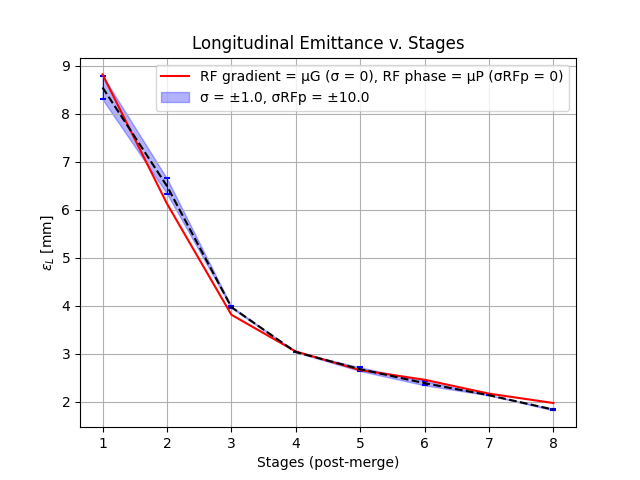
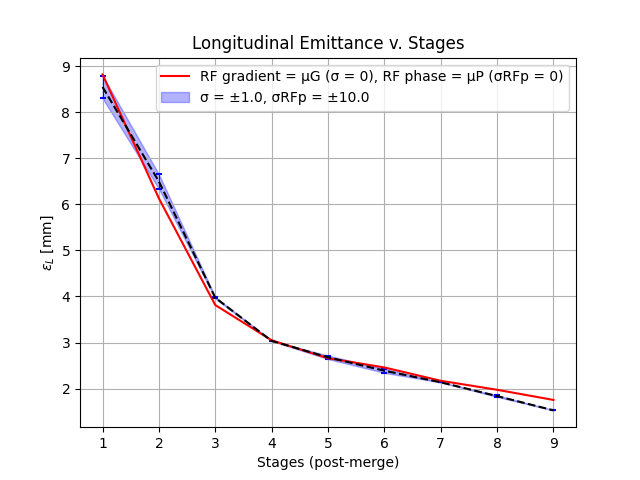
stage9

diff --git a/post_merge/quickscript.py b/post_merge/quickscript.py
@@ -16,13 +16,13 @@ transs_avg    = data[7]
 transs_sem    = data[8]
 transs_noerr  = data[9]
 
-stages = np.linspace(1, 8, num=len(zvals))
+stages = np.linspace(1, 9, num=len(zvals))
 
 plt.errorbar(stages, eperps_avg, xerr = None, yerr = eperps_sem, color='black', ecolor='blue', capsize=2.5, capthick=1.5, elinewidth=0.7, linestyle="dashed")
 plt.plot(stages, eperps_noerr, color = "red", label = "RF gradient = μG (σ = 0), RF phase = μP (σRFp = 0)")
 plt.fill_between(stages, np.array(eperps_avg) - np.array(eperps_sem), np.array(eperps_avg) + np.array(eperps_sem), color='blue', alpha=0.3, label=f'σ = ±1.0, σRFp = ±10.0')
 plt.xlabel("Stages (post-merge)")
-plt.xticks([1,2,3,4,5,6,7,8])
+plt.xticks([1,2,3,4,5,6,7,8,9])
 plt.ylabel(r"$\epsilon_T$ [mm]")
 plt.title("Transverse Emittance v. Stages")
 plt.grid(True)
@@ -34,7 +34,7 @@ plt.errorbar(stages, elongs_avg, xerr = None, yerr = elongs_sem, color='black', 
 plt.plot(stages, elongs_noerr, color = "red", label = "RF gradient = μG (σ = 0), RF phase = μP (σRFp = 0)")
 plt.fill_between(stages, np.array(elongs_avg) - np.array(elongs_sem), np.array(elongs_avg) + np.array(elongs_sem), color='blue', alpha=0.3, label=f'σ = ±1.0, σRFp = ±10.0')
 plt.xlabel("Stages (post-merge)")
-plt.xticks([1,2,3,4,5,6,7,8])
+plt.xticks([1,2,3,4,5,6,7,8,9])
 plt.ylabel(r"$\epsilon_L$ [mm]")
 plt.title("Longitudinal Emittance v. Stages")
 plt.grid(True)
@@ -46,7 +46,7 @@ plt.errorbar(stages, transs_avg, xerr = None, yerr = transs_sem, color='black', 
 plt.plot(stages, transs_noerr, color = "red", label = "RF gradient = μG (σ = 0), RF phase = μP (σRFp = 0)")
 plt.fill_between(stages, np.array(transs_avg) - np.array(transs_sem), np.array(transs_avg) + np.array(transs_sem), color='blue', alpha=0.3, label=f'σ = ±1.0, σRFp = ±10.0')
 plt.xlabel("Stages (post-merge)")
-plt.xticks([1,2,3,4,5,6,7,8])
+plt.xticks([1,2,3,4,5,6,7,8,9])
 plt.ylabel("Transmission [%]")
 plt.title("Transmission v. Stages")
 plt.grid(True)
